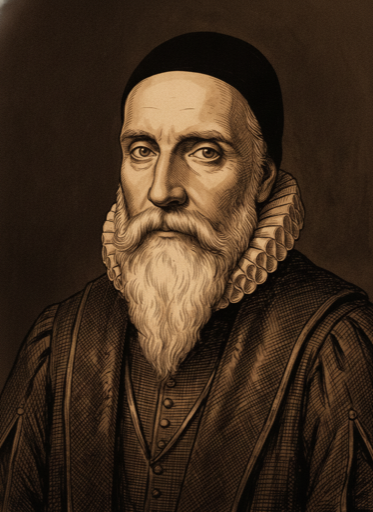
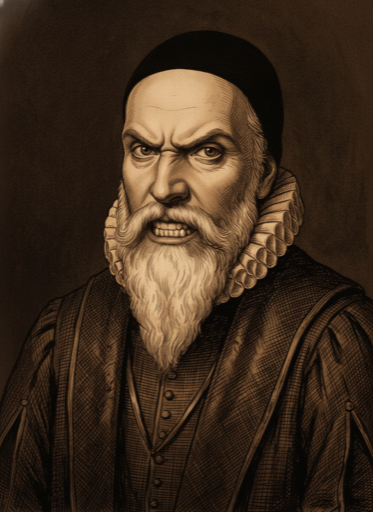
#450: fix reaction portraits reproducing baseline expression instead of reacting
Rachel's review of PR #472 caught that the reference-image anchor from the
prior fixup pass over-corrected: with a strong reference and only a mild
expression instruction, gemini-2.5-flash-image mostly reproduced the
reference photo's neutral expression instead of the requested reaction
(Arabi's thinking/angry near-duplicates, Dee/Llull/Pixie/Maud/Khaldun's
three reactions barely distinguishable from baseline, Khaldun's happy with
an unrelated eye-glow artifact).

Fixed by adding an explicit "do not reuse the reference's expression"
instruction and switching reaction descriptions from mood adjectives to
concrete physical detail (mouth/eyes/brow position) — spiked on Dee, Khaldun,
and Arabi before regenerating the full 19-candidate set. Re-promotes the 18
non-Warburg images; Warburg is held back separately (see STYLE_GUIDE.md) for
Rachel to confirm before promotion.

diff --git a/scripts/batch2-reaction-portraits-fixup.js b/scripts/batch2-reaction-portraits-fixup.js
@@ -1,31 +1,34 @@
 'use strict';
 
-// #450 batch 2 fixup — regenerates reaction candidates that drifted from
-// their member's baseline portrait on the first batch2 pass, per Rachel's
-// 2026-08-28 review: Pixie (lost ethnic ambiguity/earrings/layered dress,
-// over-warmed), Arabi (grew a beard and aged — wrong likeness), Maud (lost
-// her distinctive draped shawl/upswept hair, reads as different women per
-// reaction), Khaldun (reads notably younger than his deeply lined baseline),
-// Llull (lost his skullcap), Dee (lost his sharp cheekbones/pointed groomed
-// beard/black skullcap/structured ruff), and Warburg's `happy` reaction only
-// (deracialized, aged, jowly — thinking/angry were fine and already
-// promoted).
+// #450 batch 2 fixup v2 — regenerates reaction candidates a second time.
 //
-// Unlike the first batch2 pass and the #470 pilot, this run passes each
-// member's own baseline portrait to Gemini as a reference image (see the
-// referenceImages param added to src/portrait-generation.js) rather than
-// relying on prose description alone — plain text re-description already
-// failed once for these members, and gemini-2.5-flash-image treats a leading
-// reference image as a subject to stay consistent with, which is a much
-// stronger anchor for likeness/attire/headwear than more adjectives.
+// v1 of this script (see git history) attached each member's baseline
+// portrait as a reference image to fix likeness/attire drift, and that part
+// worked. But Rachel's review of the resulting PR (#472) caught a new,
+// worse problem: with a strong reference image and only a mild expression
+// instruction, gemini-2.5-flash-image mostly just reproduced the reference
+// photo — Arabi's thinking/angry read as near-duplicates of each other,
+// Dee/Llull/Pixie/Maud's three reactions were each barely distinguishable
+// from their own baseline, and Khaldun's `happy` picked up an unrelated,
+// unrealistic light-eyed "glow" artifact instead of an actual happy
+// expression. The reference image was anchoring the *whole* face, expression
+// included, not just identity/attire as intended.
 //
-// Also folds in Rachel's vignette note: every prompt now explicitly asks for
-// a flat, unvignetted background matching the reference, rather than leaving
-// that to chance and fixing it after the fact.
+// Fix, spiked and confirmed on Dee/Khaldun/Arabi before running the full
+// batch: an explicit "do not reuse the reference's expression — that is the
+// one thing you must change" instruction, combined with much more
+// physically concrete (not just adjective-based) expression descriptions,
+// reliably produces a real, visible expression change while still holding
+// the reference-anchored likeness/attire/headwear. Also explicitly pins eye
+// color/darkness to the reference to prevent the Khaldun glow artifact.
 //
-// Storage/naming: same as every prior batch — writes to
-// public/portraits/candidates/<id>-<reaction>.png, promote with
-// scripts/promote-portrait.js after review.
+// Regenerates all 19 candidates that needed a reference-image pass in the
+// first place (not just the ones Rachel happened to call out by name — the
+// underlying prompt bug applied to the whole set that went through v1).
+//
+// Storage/naming: same as ever — public/portraits/candidates/<id>-<reaction>.png,
+// review before promoting with scripts/promote-portrait.js --force (these
+// ids already have a canonical file from the first, flawed pass).
 //
 // Usage: node scripts/batch2-reaction-portraits-fixup.js
 
@@ -38,41 +41,45 @@ const ROOT = path.join(__dirname, '..');
 const PORTRAITS_DIR = path.join(ROOT, 'public', 'portraits');
 const CANDIDATES_DIR = path.join(PORTRAITS_DIR, 'candidates');
 
+// Forces a real expression change instead of a near-reproduction of the
+// reference photo — the actual bug this v2 script exists to fix.
+const EXPRESSION_OVERRIDE_META =
+  'This is a photo-editing task. The attached reference photo shows this person with a neutral, resting expression. You must NOT reuse or approximate the reference photo\'s facial expression under any circumstances — that neutral expression is the one thing you must change. Use the reference ONLY to match this person\'s facial structure/likeness, headwear, attire, palette, and background, including eye color and darkness exactly as in the reference (do not lighten, recolor, or add any glow to the eyes). His or her expression in your output must be a completely different, strongly and unmistakably expressed emotion, described below. If your output\'s face looks close to the reference\'s expression, you have failed the task.';
+
 const STYLE_SUFFIX =
   'Visible linework and texture (engraving/ink-wash register), not photorealistic or cartoon/flat-vector. Limited warm sepia/candlelit palette, consistent across a set. Plain dark background, no scene elements. Flat, evenly lit background with no vignette or gradient — matte and uniform edge to edge, matching the reference image\'s background exactly. Portrait-oriented, thumbnail resolution.';
 
-// Base subject clauses (BATCH-1-PROMPTS.md), each with one added sentence
-// pinning down the specific attribute that drifted on the first pass. A
-// reference image of the member's own baseline portrait is also attached to
-// every call below, so these sentences reinforce rather than solely carry
-// the fix.
+// Same likeness/attire-anchoring subject clauses as the v1 fixup — those
+// held up fine, only the expression handling needed fixing.
 const MEMBER_SUBJECTS = {
   pixie:
-    'Warm, etching-adjacent portrait of Pamela Colman Smith, Anglo-American artist and illustrator, Edwardian era — head-and-shoulders, short dark hair often bound in a headscarf, expressive intense eyes, bohemian artist\'s dress. Aim for a recognizable likeness consistent with surviving photographs. Match the reference image\'s exact skin tone and facial features precisely — do not lighten the skin or narrow the features. Keep the dangling earrings and the layered dress with visible fabric texture from the reference. Match the reference\'s sepia warmth exactly rather than a more intense warm tone.',
+    'Warm, etching-adjacent portrait of Pamela Colman Smith, Anglo-American artist and illustrator, Edwardian era — head-and-shoulders, short dark hair often bound in a headscarf, dangling earrings, layered bohemian artist\'s dress with visible fabric texture. Match the reference image\'s exact skin tone and facial features precisely — do not lighten the skin or narrow the features. Match the reference\'s sepia warmth exactly rather than a more intense warm tone.',
   arabi:
-    'Warm, etching-adjacent portrait of Muhyiddin Ibn Arabi, Andalusian-then-Damascene Sufi scholar, late 12th/early 13th century — head-and-shoulders, turban and scholar\'s robes appropriate to the Ayyubid-era Islamic world, composed expression. No photographic or contemporary likeness reference exists; render as a period-appropriate character study consistent with the set\'s register, not a specific likeness reproduction, favoring a secular character-study framing over reproducing existing devotional iconography. Match the reference image\'s clean-shaven, youthful face exactly — do not add a beard or age the face.',
+    'Warm, etching-adjacent portrait of Muhyiddin Ibn Arabi, Andalusian-then-Damascene Sufi scholar, late 12th/early 13th century — head-and-shoulders, turban and scholar\'s robes appropriate to the Ayyubid-era Islamic world. No photographic or contemporary likeness reference exists; render as a period-appropriate character study consistent with the set\'s register, favoring a secular character-study framing over reproducing existing devotional iconography. Match the reference image\'s clean-shaven, youthful face exactly — do not add a beard or age the face.',
   maud:
-    'Warm, etching-adjacent portrait of Maud Gonne, Irish revolutionary and actress, Edwardian era — head-and-shoulders, tall striking bearing, dark hair, elegant Edwardian dress, direct confident gaze. Aim for a recognizable likeness consistent with surviving photographs. Match the reference image\'s exact hairstyle (loose, upswept wavy hair) and draped shawl/wrap attire precisely — do not substitute a different dress or hairstyle.',
+    'Warm, etching-adjacent portrait of Maud Gonne, Irish revolutionary and actress, Edwardian era — head-and-shoulders, tall striking bearing, dark hair. Match the reference image\'s exact hairstyle (loose, upswept wavy hair) and draped shawl/wrap attire precisely — do not substitute a different dress or hairstyle.',
   khaldun:
-    'Warm, etching-adjacent portrait of Ibn Khaldun, North African/Andalusian historian and statesman, 14th century — head-and-shoulders, turban and formal robes appropriate to a Mamluk-era scholar-official, composed authoritative expression. No photographic or contemporary likeness reference exists; render as a period-appropriate character study consistent with the set\'s register, not a specific likeness reproduction. Match the reference image\'s elderly, deeply lined, gaunt facial structure exactly — do not render a younger or fuller face.',
+    'Warm, etching-adjacent portrait of Ibn Khaldun, North African/Andalusian historian and statesman, 14th century — head-and-shoulders, turban and formal robes appropriate to a Mamluk-era scholar-official. No photographic or contemporary likeness reference exists; render as a period-appropriate character study consistent with the set\'s register. Match the reference image\'s elderly, deeply lined, gaunt facial structure exactly — do not render a younger or fuller face.',
   llull:
-    'Warm, etching-adjacent portrait of Ramon Llull, Majorcan philosopher and mystic, 13th/14th century — head-and-shoulders, plain religious tertiary\'s habit (post-conversion, not courtly dress), weathered contemplative face. No photographic or contemporary likeness reference exists; render as a period-appropriate character study consistent with the set\'s register, not a specific likeness reproduction. Match the reference image\'s headwear exactly (skullcap/tonsure beneath the hood) — do not omit it.',
+    'Warm, etching-adjacent portrait of Ramon Llull, Majorcan philosopher and mystic, 13th/14th century — head-and-shoulders, plain religious tertiary\'s habit (post-conversion, not courtly dress), weathered contemplative face. No photographic or contemporary likeness reference exists; render as a period-appropriate character study consistent with the set\'s register. Match the reference image\'s headwear exactly (skullcap/tonsure beneath the hood) — do not omit it.',
   dee:
-    'Warm, etching-adjacent portrait of John Dee, English mathematician and astrologer, Elizabethan era — head-and-shoulders, long white beard, black skullcap, scholar\'s gown and ruff collar, penetrating gaze. No photograph exists, but a well-known contemporary painted portrait survives (Ashmolean Museum) — use it as a loose likeness anchor while keeping the etching register rather than reproducing the painting directly. Match the reference image\'s sharp cheekbones, neatly pointed and well-groomed beard, plain black skullcap (not a beret or cornered cap), and structured Elizabethan ruff collar exactly.',
+    'Warm, etching-adjacent portrait of John Dee, English mathematician and astrologer, Elizabethan era — head-and-shoulders, long white beard, black skullcap, scholar\'s gown and ruff collar. Match the reference image\'s sharp cheekbones, neatly pointed and well-groomed beard, plain black skullcap (not a beret or cornered cap), and structured Elizabethan ruff collar exactly.',
   warburg:
-    'Warm, etching-adjacent portrait of Aby Warburg, German art historian, early 20th century — head-and-shoulders, formal suit, intense/haunted expression, receding hairline. Aim for a recognizable likeness consistent with surviving photographs. Match the reference image\'s exact facial structure, age, and skin tone precisely — do not age the face or add jowls.',
+    'Warm, etching-adjacent portrait of Aby Warburg, German art historian, early 20th century — head-and-shoulders, formal suit, receding hairline. Match the reference image\'s exact facial structure, age, and skin tone precisely — do not age the face or add jowls.',
 };
 
+// v2: concrete, physically-described expressions rather than mood
+// adjectives alone — this is what actually overrides the reference image's
+// pull toward reproducing its own neutral expression.
 const REACTIONS = {
-  happy: 'Expression: a genuine, warm brightening — eyes lit with real pleasure, the faint start of a smile, an open and unguarded look.',
+  happy:
+    'Expression: a broad, unmistakable open-mouthed smile, teeth showing, cheeks pushed up high, eyes crinkled almost shut with genuine delighted laughter — an exuberant, joyful face, the opposite of a neutral or reserved expression.',
   thinking:
-    'Expression: inward and considering — gaze middle-distance or slightly downcast, brow faintly furrowed in concentration, the look of someone turning an idea over rather than addressing the viewer.',
+    'Expression: strongly inward and distracted — eyes unfocused and cast far into the middle distance (not toward the viewer at all), one eyebrow raised or brow deeply furrowed, mouth slightly open or twisted to one side as if murmuring — an obviously distracted, not-present face, the opposite of direct engagement with the viewer.',
   angry:
-    'Expression: controlled, real indignation — jaw set, eyes narrowed and direct, tension held rather than shouted; intensity, not cartoonish rage.',
+    'Expression: a hard, aggressive scowl — eyebrows sharply lowered and pulled together into a deep vertical crease, eyes narrowed to slits in a hard glare, mouth pulled into a tight snarl or bared teeth, jaw thrust forward — an unmistakably hostile, confrontational face.',
 };
 
-// member -> reactions to regenerate. Warburg only needs `happy` re-run;
-// thinking/angry were fine and are already promoted.
 const FIXUPS = {
   pixie: ['happy', 'thinking', 'angry'],
   arabi: ['happy', 'thinking', 'angry'],
@@ -84,7 +91,7 @@ const FIXUPS = {
 };
 
 function buildPrompt(memberId, reaction) {
-  return `${MEMBER_SUBJECTS[memberId]} ${REACTIONS[reaction]} ${STYLE_SUFFIX}`;
+  return `${EXPRESSION_OVERRIDE_META} ${MEMBER_SUBJECTS[memberId]} ${REACTIONS[reaction]} ${STYLE_SUFFIX}`;
 }
 
 async function main() {
@@ -104,7 +111,7 @@ async function main() {
     for (const reaction of reactions) {
       const id = `${memberId}-${reaction}`;
       const prompt = buildPrompt(memberId, reaction);
-      process.stdout.write(`Generating ${id} (with baseline reference)... `);
+      process.stdout.write(`Generating ${id} (v2, expression-override)... `);
       try {
         const start = Date.now();
         const imageBuffer = await generatePortraitImage({ apiKey, prompt, referenceImages });

diff --git a/public/portraits/STYLE_GUIDE.md b/public/portraits/STYLE_GUIDE.md
@@ -31,6 +31,7 @@ AI-generated, proof-of-concept register for this stage of the project. Not commi
 
 ## Changelog
 
+- 2026-08-28 — [#450](https://github.com/msdixon/secret-cabinet/issues/450) batch 2 correction: Rachel's review of the batch-2 PR ([#472](https://github.com/msdixon/secret-cabinet/pull/472)) caught that the reference-image fix below over-corrected — with a strong reference and only a mild expression instruction, gemini-2.5-flash-image mostly reproduced the reference photo's own neutral expression instead of the requested reaction. Ibn Arabi's `thinking`/`angry` read as near-duplicates of each other; Dee/Llull/Pixie/Maud/Khaldun's three reactions were each barely distinguishable from their own baseline; Khaldun's `happy` additionally picked up an unrelated, unrealistic light-eyed glow. Fixed by adding an explicit "do not reuse the reference's expression — that's the one thing you must change" instruction and switching each reaction's description from mood adjectives to concrete physical detail (mouth/eyes/brow position) — confirmed on Dee/Khaldun/Arabi before regenerating the full set. All 18 non-Warburg candidates re-promoted on this fix. Warburg held back separately: the promoted `thinking`/`angry` (generated in the original text-only pass, before reference-image anchoring existed) read as a fuller, older, different face than baseline/`happy` — regenerated with the same reference-anchored, expression-forced approach and pending Rachel's confirmation before promotion.
 - 2026-08-28 — [#450](https://github.com/msdixon/secret-cabinet/issues/450) batch 2: the reaction set (happy/thinking/angry) generated for the next 10 roster members past the pilot cohort (Waite, Coleman-Smith, Blavatsky, Lévi, Ibn Arabi, Maud Gonne, Llull, Ibn Khaldun, Dee, Warburg), budget approved by Rachel via the Gemini billing dashboard. First-pass candidates drifted from several members' baselines on plain text re-description alone — Pixie lost ethnic ambiguity/earrings/layered dress and over-warmed; Ibn Arabi grew a beard and aged; Maud lost her distinctive draped shawl and upswept hair, reading as different women per reaction; Ibn Khaldun read notably younger than his deeply lined baseline; Llull lost his skullcap; Dee lost his sharp cheekbones, pointed groomed beard, and black skullcap (drifting to a beret-like cap); Warburg's `happy` alone read deracialized and jowlier. Fixed by extending `generatePortraitImage` (`src/portrait-generation.js`) to accept `referenceImages`, attaching each member's own baseline portrait to the regeneration call — gemini-2.5-flash-image treats a leading reference image as a much stronger likeness/attire anchor than prose alone, and it resolved every flagged issue on one re-run. Also folded in a standing "no vignette, flat background matching the reference" instruction after inconsistent vignetting showed up across the set (Rachel's call: fix it in the prompt going forward rather than re-running to patch it after the fact). Waite's mild vignette was reviewed and judged not to need a fix — still clearly him across all three. Rachel reviewed and approved all 30 images (10 members × 3 reactions) before promotion; Blavatsky, Lévi, and Waite's full sets plus Warburg's thinking/angry promoted directly, the other 19 after the reference-image re-run.
 - 2026-08-28 — [#449](https://github.com/msdixon/secret-cabinet/issues/449)/[#450](https://github.com/msdixon/secret-cabinet/issues/450) pilot: a new per-member reaction set (happy/thinking/angry, `public/portraits/<id>-<reaction>.png`) generated and placed for a 3-member pilot cohort (Crowley, Yeats, Teresa) via the same #435 Gemini pipeline, ahead of a full-roster batch. Crowley's baseline `crowley.png` was also regenerated in the same pass — the original had him in a plain suit while the new reaction portraits put him in his ceremonial robe/sash, and two rounds of regeneration were needed to land the whole 4-image set (baseline + 3 reactions) on a consistent flat dark background and warm sepia palette (an early pass drifted red-toned on two of the four and left a light vignette/edge bleed the rest of the set doesn't have). Rachel validated all 10 images (the Crowley set explicitly, Yeats/Teresa by extension) before promotion. Not yet wired into any client rendering — this is image generation only, pending a separate decision on the trigger-to-display path.
 - 2026-08-25 — [#435](https://github.com/msdixon/secret-cabinet/issues/435) closed the loop #259 stopped short of: `POST /api/members` now calls the Gemini API (`gemini-2.5-flash-image`) directly, server-side, no agent session needed — confirmed real, directly server-callable key access (not the ElevenLabs MCP path #259's changelog entry below describes). Spiked before building: a real `curl` call confirmed the presigned-URL download path works, `sips -Z 512` reproduces the 512px convention, and `generationConfig.imageConfig.aspectRatio` genuinely controls orientation (existing portraits aren't perfectly uniform — Crowley is near-square at 512×466 — but `3:4` matches the majority and is the new default). Prompt-drafting was rebuilt around Rachel's own established generation template (Subject/Style/Composition/Lighting-Mood) rather than the ad hoc structure #259 used, with two hard constraints layered on top after a real test generation drifted without them: explicit portrait-orientation and an explicit "no scene elements at all" background rule (the template's own "minimal background distraction" phrasing let a bookshelf leak into a test image). Candidates land at `public/portraits/candidates/<id>.png`, never the canonical path automatically — `node scripts/promote-portrait.js <id>` is the human-reviewed promotion step (resize, place, delete the candidate + its `PENDING-PROMPTS.md` entry; the Changelog line itself stays yours to write, on purpose).
